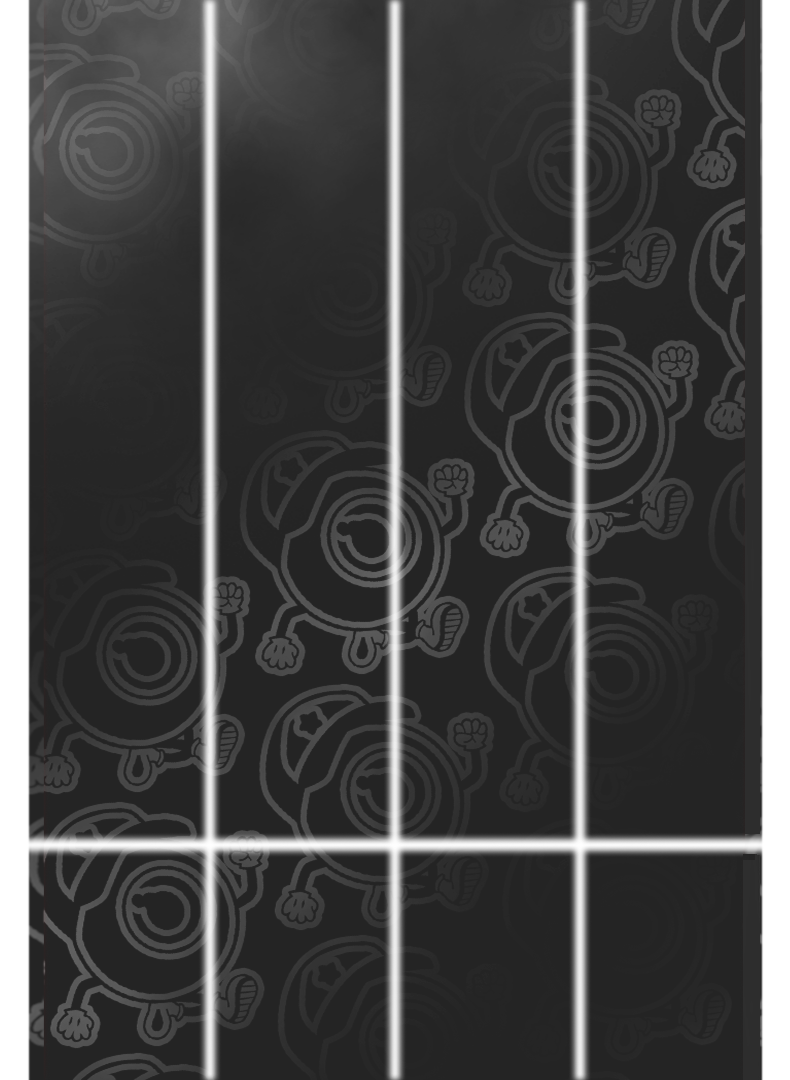
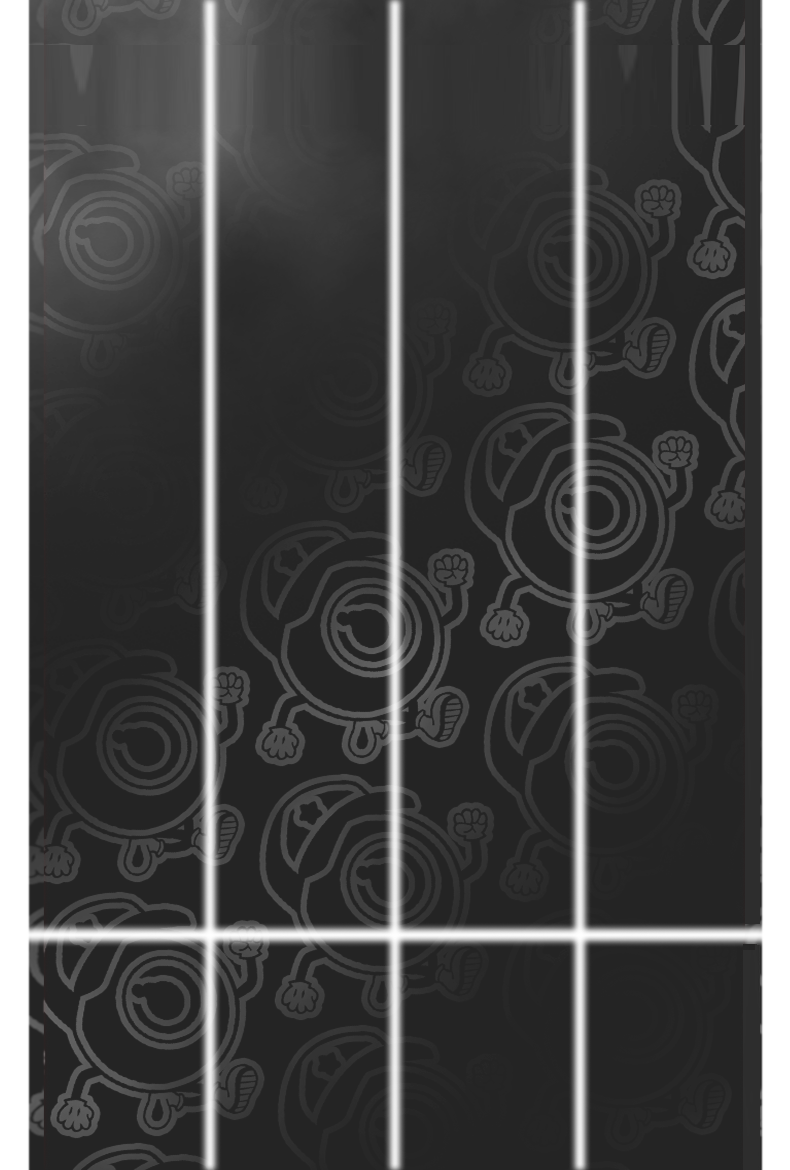
gameplay improvments and gameplay feel

diff --git a/Assets/Scripts/organMiniGameScripts/NoteSpawnerUI.cs b/Assets/Scripts/organMiniGameScripts/NoteSpawnerUI.cs
@@ -41,9 +41,6 @@ public class NoteSpawnerUI : MonoBehaviourPunCallbacks
     private float beforeEscInterval;
 
     [Header("D")]
-    public TMP_Text fBadge;
-    public TMP_Text sBadge;
-    public TMP_Text tBadge;
 
     public GameObject youWon;
 
@@ -137,28 +134,28 @@ public class NoteSpawnerUI : MonoBehaviourPunCallbacks
             // spawnInterval = waitTime;
             // DestroyAllWithTag();
             // RestartSpawn();
-            fBadge.gameObject.SetActive(true);
+            //fBadge.gameObject.SetActive(true);
             Coin1.gameObject.SetActive(true);
             // yield return new WaitForSeconds(waitTime);
             spawnInterval = 0.8f;
             RestartSpawn();
             FPointsBool = true;
             yield return new WaitForSeconds(waitTime);
-            fBadge.gameObject.SetActive(false);
+            //fBadge.gameObject.SetActive(false);
         }
         else if (points >= 100 && SPointsBool == false)
         {
             // spawnInterval = waitTime;
             // DestroyAllWithTag();
             // RestartSpawn();
-            sBadge.gameObject.SetActive(true);
+            //sBadge.gameObject.SetActive(true);
             Coin2.gameObject.SetActive(true);
             // yield return new WaitForSeconds(waitTime);
             spawnInterval = 0.7f;
             RestartSpawn();
             SPointsBool = true;
             yield return new WaitForSeconds(waitTime);
-            sBadge.gameObject.SetActive(false);
+            //sBadge.gameObject.SetActive(false);
         }
 
         else if ((points == 200 && TPointsBool == false) || (points == 205 && TPointsBool == false))
@@ -166,14 +163,14 @@ public class NoteSpawnerUI : MonoBehaviourPunCallbacks
             // spawnInterval = waitTime;
             // DestroyAllWithTag();
             // RestartSpawn();
-            tBadge.gameObject.SetActive(true);
+            //tBadge.gameObject.SetActive(true);
             Coin3.gameObject.SetActive(true);
             // yield return new WaitForSeconds(waitTime);
             spawnInterval = 0.6f;
             RestartSpawn();
             TPointsBool = true;
             yield return new WaitForSeconds(waitTime);
-            tBadge.gameObject.SetActive(false);
+            //tBadge.gameObject.SetActive(false);
         }
 
         else if (points >= 400)
@@ -208,6 +205,15 @@ public class NoteSpawnerUI : MonoBehaviourPunCallbacks
                 fillingImage.fillAmount = points / 400f;
             }
 
+        }
+    }
+    public RectTransform canvasRectTransform;
+
+    public void ShakeScreen(float duration = 0.3f, float strength = 15f)
+    {
+        if (canvasRectTransform != null)
+        {
+            canvasRectTransform.DOShakePosition(0.5f, new Vector3(30f, 20f, 0f), vibrato: 20, randomness: 90);
         }
     }
 

diff --git a/Assets/Scripts/organMiniGameScripts/Note.cs b/Assets/Scripts/organMiniGameScripts/Note.cs
@@ -51,6 +51,8 @@ public class Note : MonoBehaviour
         hasBeenMissed = true;
 
         NoteSpawnerUI.Instance.AddPoints(missPoint);
+        NoteSpawnerUI.Instance?.ShakeScreen(0.3f, 7f);
+
         FeedbackUIController.Instance?.ShowFeedback(Color.red, assignedKey);
         NoteSpawnerUI.Instance.PlayEffectOnImages(false);
 
@@ -65,6 +67,12 @@ public class Note : MonoBehaviour
 
             seq.Append(img.DOColor(Color.red, 0.15f).SetEase(Ease.OutQuad));
             seq.Join(transform.DORotate(new Vector3(0, 0, -15f), 0.25f).SetEase(Ease.OutBack));
+
+            // Burada ufak bir shake ekliyoruz, hem pozisyon hem rotasyon
+            seq.Append(transform.DOShakePosition(0.3f, strength: new Vector3(5f, 2f, 0f), vibrato: 10, randomness: 90));
+            seq.Join(transform.DOShakeRotation(0.3f, strength: 10f, vibrato: 10));
+
+
             seq.Append(transform.DOScale(1.1f, 0.2f).SetEase(Ease.OutBack));
             seq.Append(transform.DOScale(0.8f, 0.2f).SetEase(Ease.InBack));
             seq.Join(img.DOFade(0, 0.4f).SetEase(Ease.InQuad));
@@ -98,7 +106,7 @@ public class Note : MonoBehaviour
 
         Sequence seq = DOTween.Sequence();
 
-        seq.Append(img.DOColor(Color.green, 0.1f).SetEase(Ease.OutQuad));
+        //seq.Append(img.DOColor(Color.green, 0.1f).SetEase(Ease.OutQuad));
         seq.Append(transform.DOScale(originalScale * 1.4f, 0.2f).SetEase(Ease.OutBack));
         seq.Join(transform.DORotate(new Vector3(0, 0, 10f), 0.2f).SetEase(Ease.OutBack));
         seq.Append(transform.DOScale(originalScale * 0.9f, 0.15f).SetEase(Ease.InBack));

diff --git a/Assets/Scripts/organMiniGameScripts/ComboVFXPlayer.cs b/Assets/Scripts/organMiniGameScripts/ComboVFXPlayer.cs
@@ -38,12 +38,16 @@ public class ComboVFXPlayer : MonoBehaviour
 
         // Fade in 0.3 saniyede
         img.DOFade(1f, 0.3f).SetUpdate(true);
+
+        // Hafif titreşim
+        transform.DOShakePosition(0.2f, 5f, vibrato: 10, randomness: 45).SetUpdate(true);
     }
+
 
     public void Stop()
     {
         effectSequence?.Kill();
-
+        ShakeScreen(0.2f, 4f);
         // Fade out yap, sonra kapat
         img.DOFade(0f, 0.3f).SetUpdate(true).OnComplete(() =>
         {
@@ -54,7 +58,12 @@ public class ComboVFXPlayer : MonoBehaviour
         });
     }
 
+    public void ShakeScreen(float duration = 0.3f, float strength = 15f)
+    {
 
+        this.transform.DOShakePosition(0.5f, new Vector3(30f, 20f, 0f), vibrato: 20, randomness: 90);
+
+    }
     void Update()
     {
         if (frames == null || frames.Length == 0) return;
